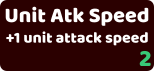
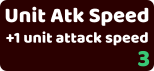
stats upgrade tweak

Changed region(s): [[0.8831, 0.7042, 0.987, 0.9577]]

diff --git a/server/UpdateManager.ts b/server/UpdateManager.ts
@@ -22,7 +22,14 @@ export class UpdateManager {
 
     updateCount=0;;
 
-    upgradeCosts = [2, 1, 1, 2, 1, 3, 1, 2];
+    upgradeCosts = [2, //income
+                    1, //training
+                    2, //attack
+                    3, //atk speed
+                    1, //resource
+                    3, //unitcount
+                    1, //hp
+                    2];//range
 
     gamePlayer : GamePlayer;
 
@@ -79,9 +86,9 @@ export class UpdateManager {
                 this.atkSpeedModifier -= 1;
             }
             else if (upgrade == 4) {
-                this.gamePlayer.resourceManager.add(75, 75);
+                this.gamePlayer.resourceManager.add(50, 50);
             }
-            else if (upgrade == 5){
+            else if (upgrade == 5) {
                 this.gamePlayer.getSpamBuildings().forEach(b => {
                     b.data.spamCount += 1;
                 });
@@ -89,10 +96,10 @@ export class UpdateManager {
             }
             else if (upgrade == 6) {
                 this.gamePlayer.getAllUnits().forEach(u => {
-                    u.data.maxHP += 2;
-                    u.data.hp += 2;
+                    u.data.maxHP += 1;
+                    u.data.hp += 1;
                 });
-                this.hpModifier += 2;
+                this.hpModifier += 1;
             }
             else if (upgrade == 7) {
                 this.gamePlayer.getAllUnits().forEach(u => {

diff --git a/server/UpdateManager.js b/server/UpdateManager.js
@@ -16,7 +16,14 @@ var UpdateManager = (function () {
     function UpdateManager(gamePlayer) {
         this.updateRateCounter = 0;
         this.updateCount = 0;
-        this.upgradeCosts = [2, 1, 1, 2, 1, 3, 1, 2];
+        this.upgradeCosts = [2,
+            1,
+            2,
+            3,
+            1,
+            3,
+            1,
+            2];
         this.attackModifier = 0;
         this.atkSpeedModifier = 0;
         this.hpModifier = 0;
@@ -62,7 +69,7 @@ var UpdateManager = (function () {
                 this.atkSpeedModifier -= 1;
             }
             else if (upgrade == 4) {
-                this.gamePlayer.resourceManager.add(75, 75);
+                this.gamePlayer.resourceManager.add(50, 50);
             }
             else if (upgrade == 5) {
                 this.gamePlayer.getSpamBuildings().forEach(function (b) {
@@ -72,10 +79,10 @@ var UpdateManager = (function () {
             }
             else if (upgrade == 6) {
                 this.gamePlayer.getAllUnits().forEach(function (u) {
-                    u.data.maxHP += 2;
-                    u.data.hp += 2;
+                    u.data.maxHP += 1;
+                    u.data.hp += 1;
                 });
-                this.hpModifier += 2;
+                this.hpModifier += 1;
             }
             else if (upgrade == 7) {
                 this.gamePlayer.getAllUnits().forEach(function (u) {

diff --git a/client/ui/UIUpdateButton.js b/client/ui/UIUpdateButton.js
@@ -2,7 +2,14 @@ var Kodo;
 (function (Kodo) {
     var UIUpdateButton = (function () {
         function UIUpdateButton(game, button) {
-            this.upgradeCosts = [2, 1, 1, 2, 1, 3, 1, 2];
+            this.upgradeCosts = [2,
+                1,
+                2,
+                3,
+                1,
+                3,
+                1,
+                2];
             this.justOpened = false;
             this.justClicked = false;
             this.game = game;

diff --git a/client/ui/UIUpdateButton.ts b/client/ui/UIUpdateButton.ts
@@ -7,7 +7,14 @@ module Kodo {
 
         wrapGroup : Phaser.Group;
 
-        upgradeCosts = [2, 1, 1, 2, 1, 3, 1, 2];
+        upgradeCosts = [2, //income
+                        1, //training
+                        2, //attack
+                        3, //atk speed
+                        1, //resource
+                        3, //unitcount
+                        1, //hp
+                        2];//range
 
         justOpened = false;
         justClicked = false;

diff --git a/client/ui/IncomeBar.ts b/client/ui/IncomeBar.ts
@@ -49,7 +49,6 @@ module Kodo {
             var goldIcon = game.add.sprite(125, game.height - GameConfig.uiHeight / 2, 'gold_icon');
             goldIcon.scale.setTo(0.7, 0.7);
             goldIcon.alignTo(this.incomeNumberLabel, Phaser.RIGHT_CENTER, 3, -2);
-
         }
         update() {
             if (this.smooth < this.maxLenght) {

diff --git a/server/GameConfig.js b/server/GameConfig.js
@@ -10,5 +10,5 @@ var GameConfig;
     GameConfig.STARTING_INCOME = 15;
     GameConfig.STARTING_INCOME_RATE = 13;
     GameConfig.BALL_SPAM_RATE = 80;
-    GameConfig.UPDATE_RATE = 80;
+    GameConfig.UPDATE_RATE = 55;
 })(GameConfig = exports.GameConfig || (exports.GameConfig = {}));

diff --git a/server/GameConfig.ts b/server/GameConfig.ts
@@ -8,6 +8,6 @@ export module GameConfig {
     export const STARTING_INCOME = 15;
     export const STARTING_INCOME_RATE = 13;
     export const BALL_SPAM_RATE = 80;
-    export const UPDATE_RATE = 80;
+    export const UPDATE_RATE = 55;
 
 }
